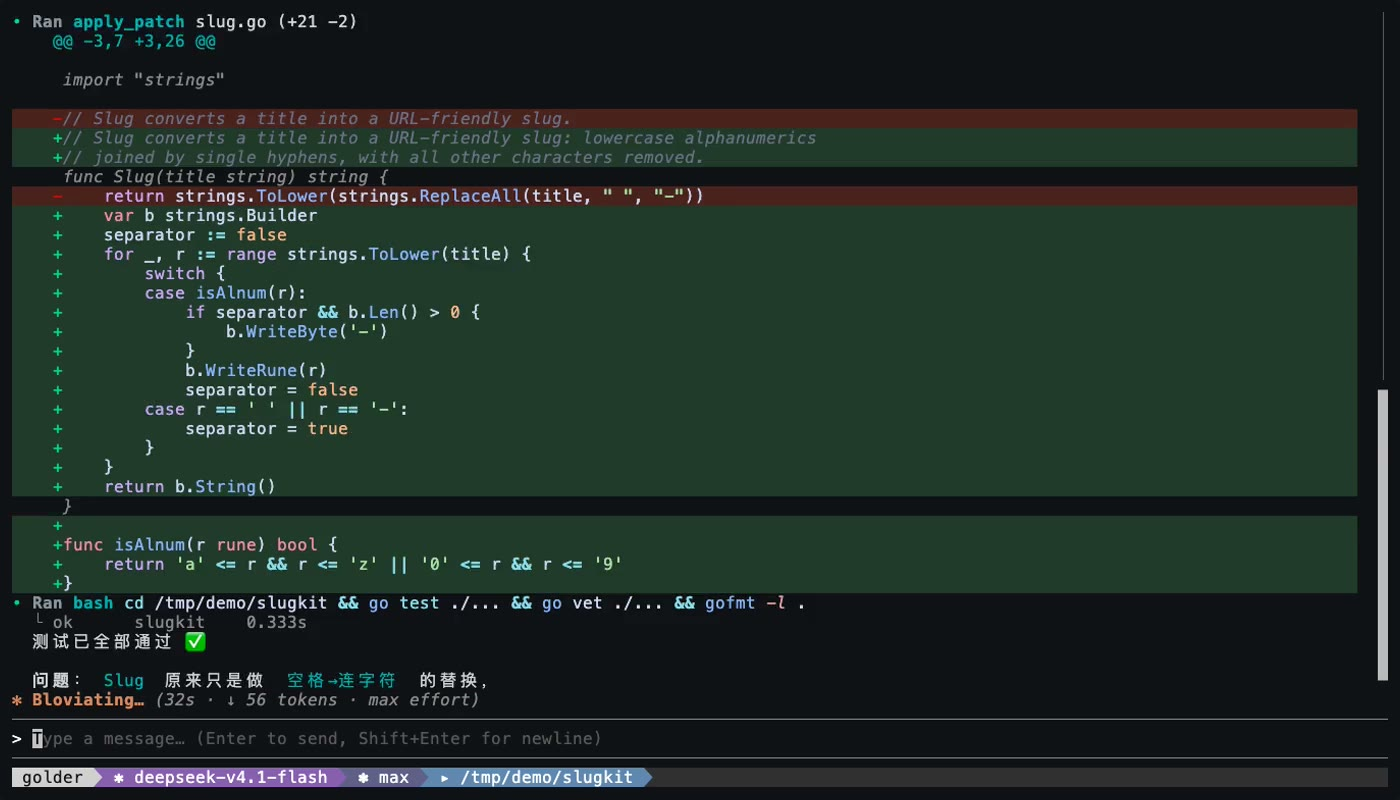
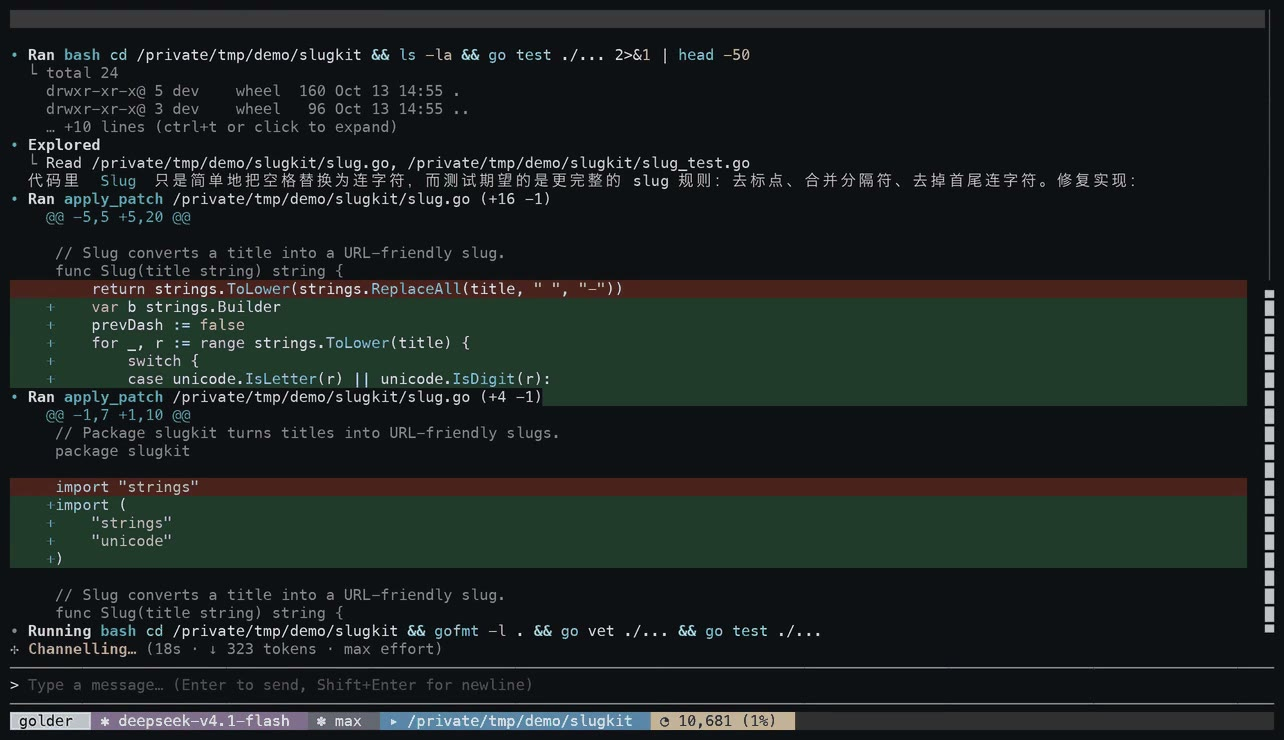
docs(readme): show the TUI in repo-local screenshots, and name three features the README still missed
The hero was a GitHub user-attachments URL, which is an asset living in an issue comment: it cannot be regenerated from the repo and it breaks silently when the link rots. Three screenshots from a real session now live in docs/assets — the splash, the tool cards carrying an actual diff, and the finish with all four tests green — and the hero points at the 26-second recording on the site. docs/assets/demo-poster.jpg is re-cut from the same run.

Three shipped features were missing from the feature list: !command passthrough (runs locally, then joins the conversation as codex's user-role <user_shell_command> record), Ctrl+Z suspend, and /trust list //permissions list showing every grant rather than only the ones in force in this directory.

diff --git a/README.en.md b/README.en.md
@@ -8,11 +8,20 @@
 
 A terminal AI coding assistant written in Go: read and write files, run commands, search code, and fetch web pages — closing the loop from understanding a request to shipping the change. Starts in a full-screen TUI by default, with a line-based REPL and a headless mode for scripts.
 
-https://github.com/user-attachments/assets/f02bc1ec-c178-425a-92de-f73af1e862a9
+<p align="center">
+  <img src="docs/assets/demo-splash.png" width="92%" alt="golder's full-screen TUI: splash and status bar">
+</p>
 
 <p align="center">
-  <sub>Recorded for real, nothing staged: red <code>go test</code> → autonomous fix → all green (28s, 2× speed) · <a href="https://golder-cli.pages.dev/en/">Website</a></sub>
+  <sub>A real session, nothing staged: red <code>go test</code> → the model reads, patches, re-runs → all green (screenshots from the same run below) · <a href="https://golder-cli.pages.dev/en/">26-second video on the site</a></sub>
 </p>
+
+<table>
+<tr>
+<td width="50%"><img src="docs/assets/demo-tools.png" alt="Tool cards: reading files, applying a patch, running tests — with the real diff"></td>
+<td width="50%"><img src="docs/assets/demo-done.png" alt="The finish: all four tests green, with the verification steps spelled out"></td>
+</tr>
+</table>
 
 ## Features
 
@@ -211,6 +220,9 @@ Notes:
 
 - `/compact` immediately summarizes the context once; `/status` includes the session id, message count, creation time, and context usage (the former `/session` is folded in).
 - **Ctrl+C behaves the same everywhere**: while a run is in flight one press requests the interrupt (it prints `(interrupting…)` and settles on the single line `Interrupted.`); pressing again during the same run neither repeats the notice nor quits early. Idle, the first press discards a draft (and says so) or, on an empty composer, only arms the quit (`Press Ctrl+C again to quit.`) — matching codex, there is no "double-press to force-quit mid-run", so a stray press cannot drop an unsaved turn. Esc interrupts exactly like Ctrl+C.
+- **Ctrl+Z suspends**: pressing Ctrl+Z in any state hands the terminal back to its own job control (bubbletea releases the terminal and raises SIGTSTP), and `fg` resumes with the layout re-laid out for the current size — matching codex and every other terminal UI.
+- **`!command` passthrough**: a composer line starting with `!` runs locally — no model call, no approval, no sandbox — and joins the conversation as codex's user-role `<user_shell_command>` record (command, exit code, duration, and head+tail bounded output), so the model sees exactly what you ran and what came back. The TUI announces a live `• Running …` card that streams the command's output and settles as `• You ran …`; a record that lands mid-run is parked and merged once the run drains, so it never races the loop that owns the context. Works in both the TUI and the REPL, ↑ recalls the raw `!` line, and a bare `!` prints the usage hint.
+- `/trust list` and `/permissions list` show **every** grant, not just the ones in force here: the former prints each saved decision sorted by path with the current directory marked, then the session-only grants that are not on disk at all and the store it read; the latter prints the live approval mode, both grant kinds with their provenance and the files they come from, and how to change them. `/trust status` still answers only the narrower "what applies to this directory".
 - **Resuming rebuilds the system prompt from the current binary**: the tool guide, environment block (working directory, date, whether ripgrep is installed), AGENTS.md and the skill list are regenerated as of NOW instead of reusing the copy frozen in the session file — a session written days ago otherwise carries its creation date and ignores AGENTS.md edits. Your own words are kept: the `--system-prompt` base and `--append-system-prompt` blocks recorded with the session are carried over, and flags given on this launch win. The session file still records the prompt the session was created with, which is what `/export --include-system-prompt` shows.
 - `/resume`, `/fork`, `/tree` and `/rewind` are arrow-key pickers in the TUI and numbered selections in the REPL. A bare `/resume` lists **this project** only (a project is the repository containing the launch directory, so a repo root and its subdirectories share one history) and every row carries the directory it ran in; `/resume --all` lists every project, and a filtered or out-of-range list names `--all` instead of hiding sessions silently. `--resume <id>` and `/resume <id>` always resolve across the whole store.
 - Every skill directory under `~/.agents/skills` adds one `/command`; a fresh machine without that directory shows an empty Extensions group. Use `GOLDER_SKILLS_DIR` to relocate it or `--no-skills` to disable it entirely.
